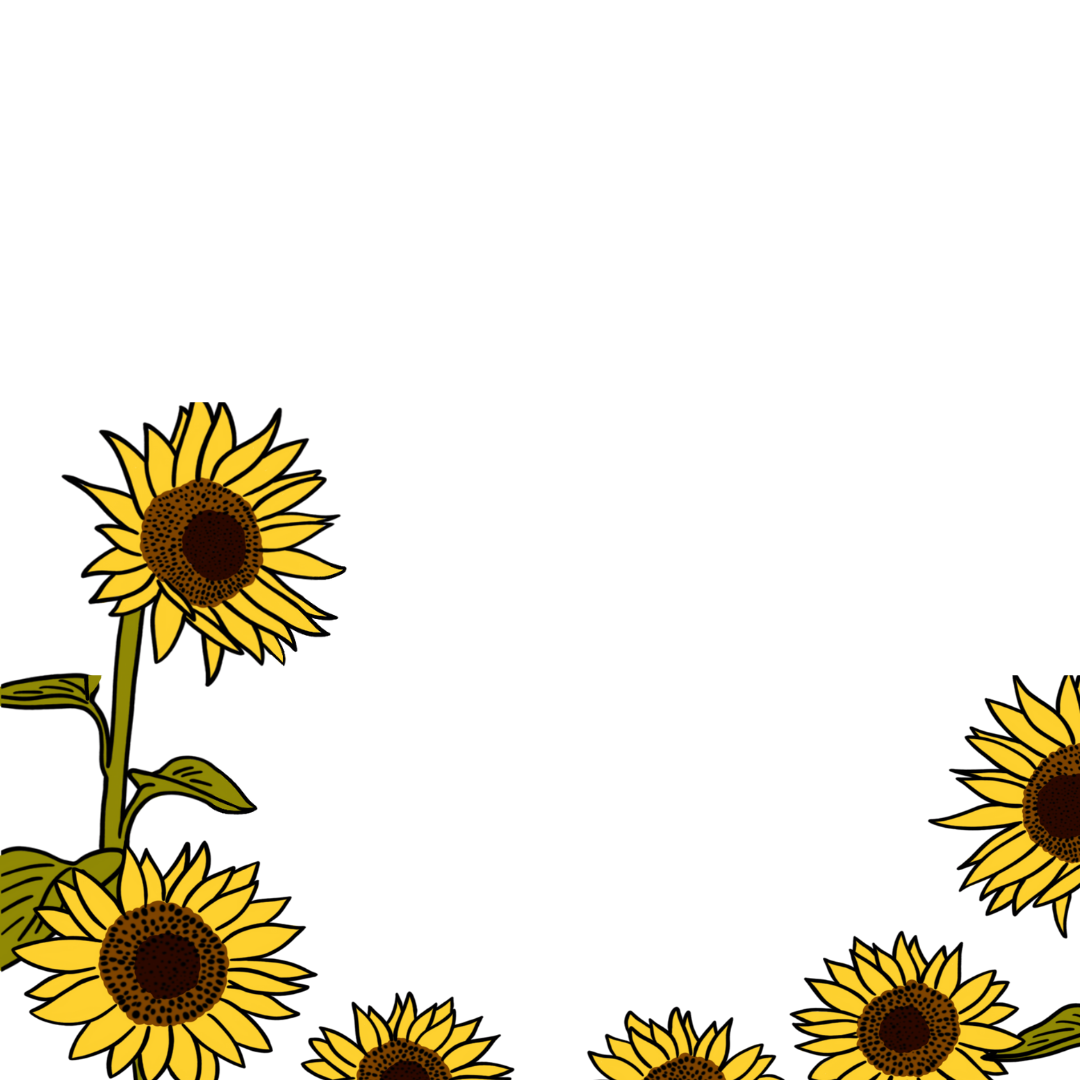
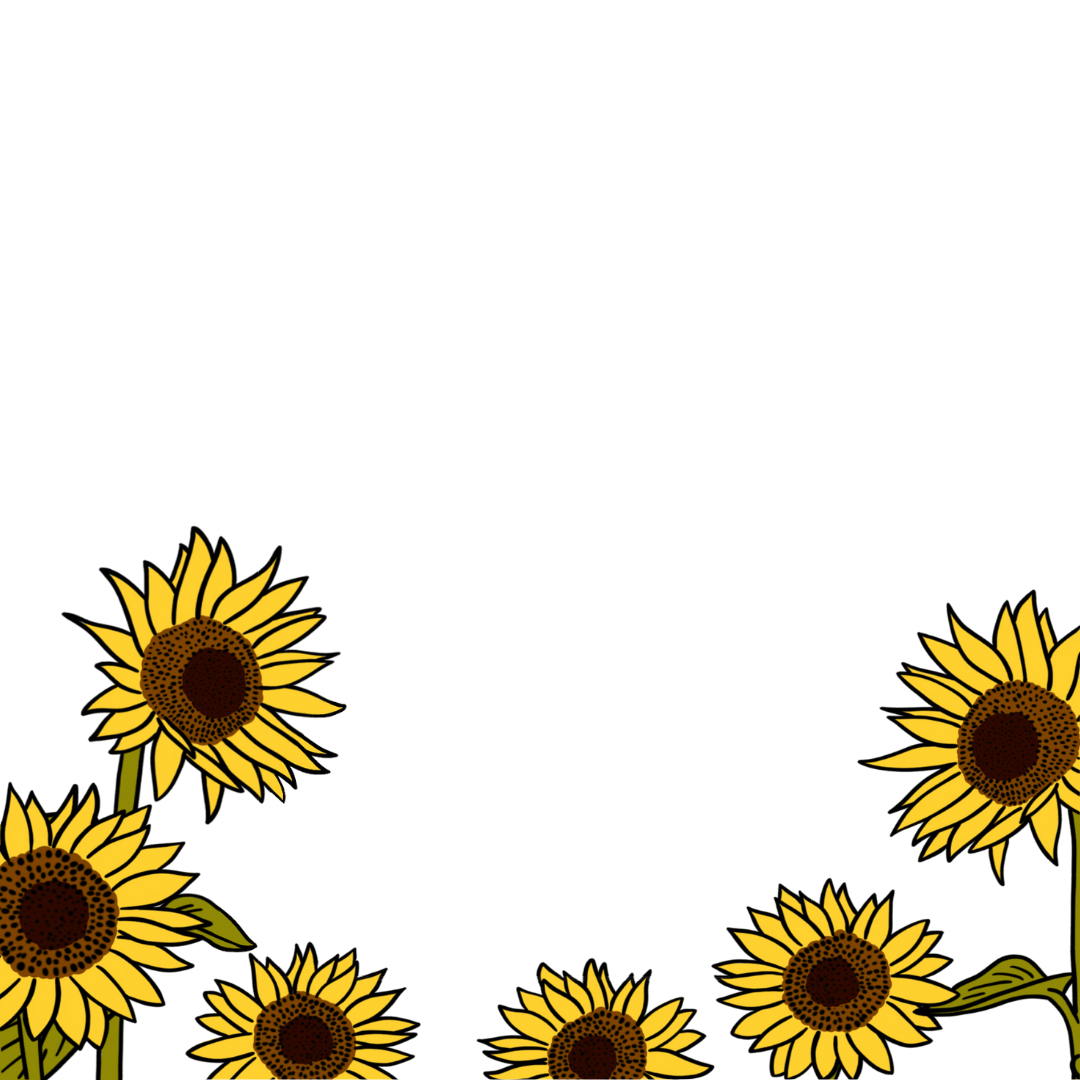
Update social media assets.

Changed region(s): [[0.0, 0.3667, 1.0, 1.0]]

diff --git a/src/healthy_campaign.ts b/src/healthy_campaign.ts
@@ -236,9 +236,9 @@ export const HEALTHY_CAMPAIGN: Campaign = {
                 scaleStrategy: 'fill',
             },
             picture: {
-                x: 284,
-                y: 291,
-                width: 517,
+                x: 272,
+                y: 315,
+                width: 537,
                 height: 598,
                 enforceAspectRatio: true,
             },
